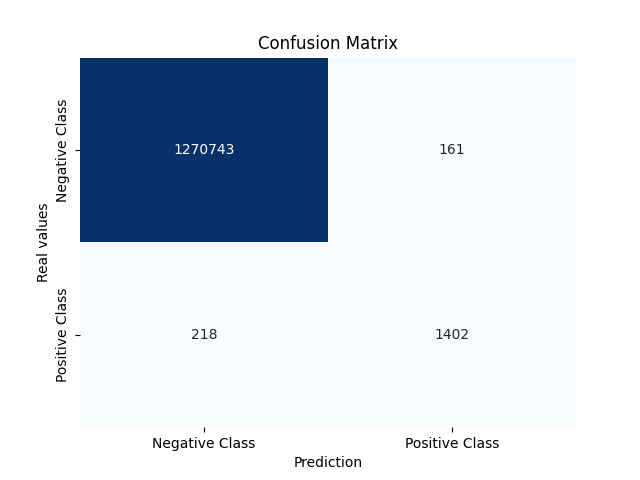
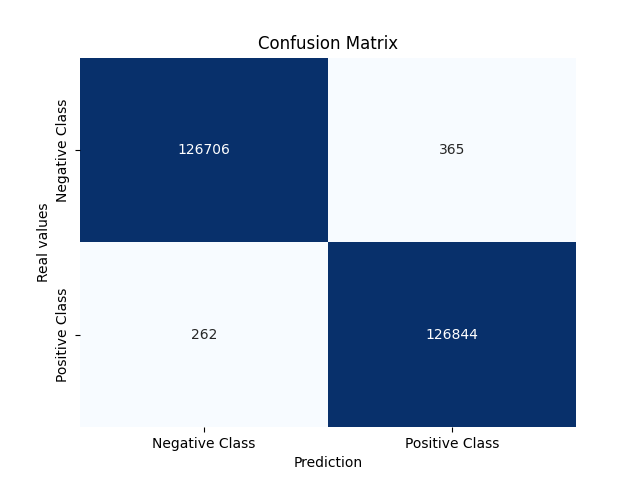
final step

diff --git a/cleaner.py b/cleaner.py
@@ -1,31 +1,70 @@
 import pandas as pd
-from sklearn.preprocessing import LabelEncoder
+import numpy as np
+from sklearn.preprocessing import LabelEncoder, StandardScaler
+from imblearn.over_sampling import SMOTE
 
-def clean_data(df):
+def clean_dataset(df):
     # Delete missing values
     df = df.dropna()
 
     # Delete duplicates
     df = df.drop_duplicates()
 
-    # Convert data types if needed
+    # Convert data types into numeric type
     # Initialize the LabelEncoder
     le = LabelEncoder()
-
     df['type'] = le.fit_transform(df['type'])
     df['nameOrig'] = le.fit_transform(df['nameOrig'])
     df['nameDest'] = le.fit_transform(df['nameDest'])
+
+    # Normalize numeric data
+    scaler = StandardScaler()
+    numeric_columns = ['amount', 'oldbalanceOrg', 'newbalanceOrig', 'oldbalanceDest', 'newbalanceDest']
+    df[numeric_columns] = scaler.fit_transform(df[numeric_columns])
+
+    # Data balancing to obtain data that is as fraudulent as it is clean in a balanced way
+    x_resampled, y_resampled = SMOTE().fit_resample(df.drop(['isFraud', 'isFlaggedFraud'], axis=1), df['isFraud'])
+    df = pd.concat([x_resampled, y_resampled], axis=1)
+
+    return df
+
+def create_synthetic_dataset(df):
+    df = df.sample(frac=0.1)
+
+    return df
+
+def create_dataset_with_missing_data(df):
+    df = df.sample(frac=0.1)
+
+    # Replace some random value in the dataset with Nan value
+    df['amount'] = np.where(np.random.rand(len(df)) < 0.3, np.nan, df['amount'])
+    df['oldbalanceOrg'] = np.where(np.random.rand(len(df)) < 0.3, np.nan, df['oldbalanceOrg'])
+    df['newbalanceOrig'] = np.where(np.random.rand(len(df)) < 0.3, np.nan, df['newbalanceOrig'])
+    df['oldbalanceDest'] = np.where(np.random.rand(len(df)) < 0.3, np.nan, df['oldbalanceDest'])
+    df['newbalanceDest'] = np.where(np.random.rand(len(df)) < 0.3, np.nan, df['newbalanceDest'])
 
     return df
 
 
 if __name__ == "__main__":
     # Load Dataset
-    dataset_path = "dataset/dataset_1.csv"
-    data = pd.read_csv(dataset_path)
+    data = pd.read_csv("dataset/original_dataset.csv")
 
-    # Clean data
-    cleaned_data = clean_data(data)
+    # 0.Clean_dataset
+    cleaned_data = clean_dataset(data)
 
-    # Save data on new CSV file
+    # Make 3 types of dataset (large, synthetic, missing_values)
+    # 1.Large
+    large_data = cleaned_data
+
+    # 2.Synthetic
+    synthetic_data = create_synthetic_dataset(cleaned_data)
+
+    # # 3.Missing_values
+    missing_data = create_dataset_with_missing_data(cleaned_data)
+
+    # # Save them on new CSV files
     cleaned_data.to_csv("dataset/cleaned_dataset.csv", index=False)
+    large_data.to_csv("dataset/large_dataset.csv", index=False)
+    synthetic_data.to_csv("dataset/synthetic_dataset.csv", index=False)
+    missing_data.to_csv("dataset/dataset_with_missing_values.csv", index=False)

diff --git a/algorithms/lasso_regression/lasso_regression.py b/algorithms/lasso_regression/lasso_regression.py
@@ -1,7 +1,7 @@
 import pandas as pd
 from sklearn.model_selection import train_test_split
-from sklearn.neighbors import KNeighborsClassifier
-from sklearn.metrics import accuracy_score, confusion_matrix
+from sklearn.linear_model import Lasso
+from sklearn.metrics import accuracy_score, confusion_matrix, classification_report
 import matplotlib.pyplot as plt
 import seaborn as sns
 import time
@@ -16,33 +16,29 @@ df = pd.read_csv('../../dataset/synthetic_dataset.csv')
 X = df.drop('isFraud', axis=1)
 y = df['isFraud']
 
-# Divide all the datas as a set of training and testing
+# Divide all the data as a set of training and testing
 X_train, X_test, y_train, y_test = train_test_split(X, y, test_size=0.2, random_state=42)
 
-# Create a classificator KNN with a given neighbor's number
-knn_classifier = KNeighborsClassifier(n_neighbors=3)
+# Create a Lasso Regression model
+lasso_model = Lasso(alpha=1.0)  # You can adjust the alpha parameter for regularization
 
-# Train the model with the previous training set of data
-knn_classifier.fit(X_train, y_train)
+# Train the model with the training set
+lasso_model.fit(X_train, y_train)
 
-# Make prediction on training dataset
-predictions = knn_classifier.predict(X_test)
+# Make predictions on the testing dataset (considering a threshold of 0.5)
+predictions_proba = lasso_model.predict(X_test)
+predictions = (predictions_proba >= 0.5).astype(int)
 
-# Evaluate the model's performance by calculating the precision
+# Evaluate the model's performance
 accuracy = accuracy_score(y_test, predictions)
-
-# Set the error rate
-error_rate = 1 - accuracy
-
-# Display in terminal all the result
-print("Model Accuracy : {:.2f}%".format(accuracy * 100))
-print("Model Error Rate : {:.2f}%".format(error_rate * 100))
-
-# Display the confusion matrix
 conf_matrix = confusion_matrix(y_test, predictions)
-print("Confusion Matrix :\n", conf_matrix)
 
-# Create a heatmap with seaborn
+# Display results in the terminal
+print("Model Accuracy : {:.2f}%".format(accuracy * 100))
+print("Confusion Matrix :\n", conf_matrix)
+print("Classification Report :\n", classification_report(y_test, predictions))
+
+# Display a heatmap with seaborn
 sns.heatmap(conf_matrix, annot=True, fmt="d", cmap="Blues", cbar=False,
             xticklabels=['Negative Class', 'Positive Class'],
             yticklabels=['Negative Class', 'Positive Class'])

diff --git a/algorithms/apriori/apriori.py b/algorithms/apriori/apriori.py
@@ -6,8 +6,8 @@ import time
 # Save the start time of the file execution
 start_time = time.time()
 
-# Create DataFrame by reading the dataset_1.csv
-df = pd.read_csv('../../dataset/cleaned_dataset.csv')
+# Create DataFrame by reading the original_dataset.csv
+df = pd.read_csv('../../dataset/synthetic_dataset.csv')
 
 # Assume the dataset is in a transactional format where each row represents a transaction
 transactions = df.applymap(str).values.tolist()

diff --git a/algorithms/hierarchical_clustering/hierarchical_clustering.py b/algorithms/hierarchical_clustering/hierarchical_clustering.py
@@ -9,8 +9,8 @@ import time
 # Save the start time of the file execution
 start_time = time.time()
 
-# Create DataFrame by reading the dataset_1.csv
-df = pd.read_csv('../../dataset/cleaned_dataset.csv')
+# Create DataFrame by reading the original_dataset.csv
+df = pd.read_csv('../../dataset/synthetic_dataset.csv')
 
 # Set X data (no y since Hierarchical Clustering is unsupervised)
 X = df.drop('isFraud', axis=1)

diff --git a/algorithms/gaussian_mixture/gaussian_mixture.py b/algorithms/gaussian_mixture/gaussian_mixture.py
@@ -7,8 +7,8 @@ import time
 # Save the start time of the file execution
 start_time = time.time()
 
-# Create DataFrame by reading the dataset_1.csv
-df = pd.read_csv('../../dataset/cleaned_dataset.csv')
+# Create DataFrame by reading the original_dataset.csv
+df = pd.read_csv('../../dataset/synthetic_dataset.csv')
 
 # Set X data (no y since GMM is unsupervised)
 X = df.drop('isFraud', axis=1)

diff --git a/algorithms/linear_regression/linear_regression.py b/algorithms/linear_regression/linear_regression.py
@@ -9,8 +9,8 @@ import time
 # Save the start time of the file execution
 start_time = time.time()
 
-# Create DataFrame by reading the dataset_1.csv
-df = pd.read_csv('../../dataset/cleaned_dataset.csv')
+# Create DataFrame by reading the original_dataset.csv
+df = pd.read_csv('../../dataset/synthetic_dataset.csv')
 
 # Set X and y data
 X = df.drop('isFraud', axis=1)

diff --git a/algorithms/logistic_regression/logistic_regression.py b/algorithms/logistic_regression/logistic_regression.py
@@ -9,8 +9,8 @@ import time
 # Save the start time of the file execution
 start_time = time.time()
 
-# Create DataFrame by reading the dataset_1.csv
-df = pd.read_csv('../../dataset/cleaned_dataset.csv')
+# Create DataFrame by reading the original_dataset.csv
+df = pd.read_csv('../../dataset/synthetic_dataset.csv')
 
 # Set X and y data
 X = df.drop('isFraud', axis=1)

diff --git a/algorithms/ridge_regression/ridge_regression.py b/algorithms/ridge_regression/ridge_regression.py
@@ -9,8 +9,8 @@ import time
 # Save the start time of the file execution
 start_time = time.time()
 
-# Create DataFrame by reading the dataset_1.csv
-df = pd.read_csv('../../dataset/cleaned_dataset.csv')
+# Create DataFrame by reading the original_dataset.csv
+df = pd.read_csv('../../dataset/synthetic_dataset.csv')
 
 # Set X and y data
 X = df.drop('isFraud', axis=1)

diff --git a/algorithms/neuronal_network/neuronal_network.py b/algorithms/neuronal_network/neuronal_network.py
@@ -16,8 +16,8 @@ import time
 # Save the start time of the file execution
 start_time = time.time()
 
-# Create DataFrame by reading the dataset_1.csv
-df = pd.read_csv('../dataset/dataset_1.csv')
+# Create DataFrame by reading the original_dataset.csv
+df = pd.read_csv('../dataset/original_dataset.csv')
 
 # Initialize the LabelEncoder
 le = LabelEncoder()

diff --git a/algorithms/XGBoost/XGBoost.py b/algorithms/XGBoost/XGBoost.py
@@ -11,7 +11,7 @@ import time
 start_time = time.time()
 
 # Load cleaned dataset
-df = pd.read_csv('../../dataset/cleaned_dataset.csv')
+df = pd.read_csv('../../dataset/synthetic_dataset.csv')
 
 # Set X and y data
 X = df.drop('isFraud', axis=1)

diff --git a/algorithms/decision_tree/decision_tree.py b/algorithms/decision_tree/decision_tree.py
@@ -11,7 +11,7 @@ import time
 start_time = time.time()
 
 # Load cleaned dataset
-df = pd.read_csv('../../dataset/cleaned_dataset.csv')
+df = pd.read_csv('../../dataset/synthetic_dataset.csv')
 
 # Set X and y data
 X = df.drop('isFraud', axis=1)

diff --git a/algorithms/gradien_boosting_regression/gradien_boosting_regression.py b/algorithms/gradien_boosting_regression/gradien_boosting_regression.py
@@ -10,7 +10,7 @@ import time
 start_time = time.time()
 
 # Load cleaned dataset
-df = pd.read_csv('../../dataset/cleaned_dataset.csv')
+df = pd.read_csv('../../dataset/synthetic_dataset.csv')
 
 # Set X and y data
 X = df.drop('isFraud', axis=1)
